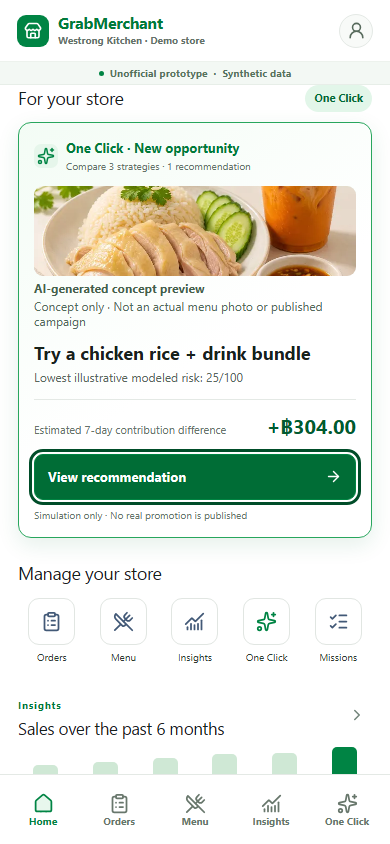
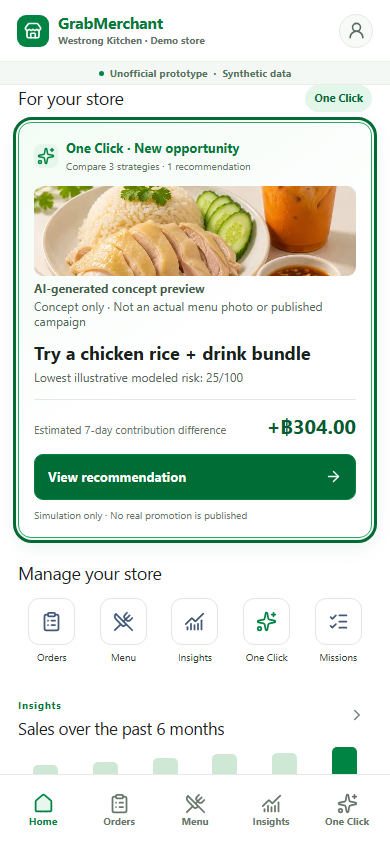
Make One Click home card fully clickable

Changed region(s): [[0.0308, 0.1232, 0.9846, 0.6469]]

diff --git a/frontend/app/page.tsx b/frontend/app/page.tsx
@@ -33,7 +33,7 @@ export default async function Home({ searchParams }: { searchParams: Promise<{ o
     <section className="merchant-highlights" aria-label="Today's overview"><div className="highlight-orders"><span className="highlight-pill">Synthetic data</span><strong>{data.today.orders}</strong><span>Completed orders today</span></div><div className="highlight-sales"><span>Sales today</span><strong>{baht(data.today.gmv)}</strong><small>GMV · {data.today.orders} orders</small></div></section>
     <div className="home-aov">Average order value <strong>{baht(data.today.aov)}</strong></div>
 
-    <section className="home-for-you" aria-labelledby="for-you-heading"><div className="home-feature-heading"><h2 id="for-you-heading">For your store</h2><span>One Click</span></div><article className={`home-recommendation${data.opportunity ? " is-opportunity" : ""}`}><div className="home-recommendation-top"><span className="native-ai-icon"><Sparkles size={18} /></span><span><strong>One Click · New opportunity</strong><small>Compare 3 strategies · 1 recommendation</small></span></div>{homeVisualStrategy && <div className="home-recommendation-visual"><StrategyVisual strategyId={homeVisualStrategy} variant="hero" /><small>Concept only · Not an actual menu photo or published campaign</small></div>}{data.opportunity ? <><h3>{recommendedCase?.strategy_id === "bundle" && /chicken rice.*drink/i.test(comparison?.proposed.label ?? "") ? "Try a chicken rice + drink bundle" : recommendedCase ? `Try ${recommendedCase.description.toLowerCase()}` : data.opportunity.title}</h3><p>{recommendedCase ? `Lowest illustrative modeled risk: ${recommendedCase.risk_score}/100` : data.opportunity.rationale}</p>{recommendedCase && <div className="home-recommendation-impact"><span>Estimated 7-day contribution difference</span><strong>{baht(recommendedCase.estimated_difference, true)}</strong></div>}<Link href={`/opportunity?id=${data.opportunity.id}`} className="home-recommendation-link">View recommendation <ArrowRight size={17} /></Link></> : latest ? <><h3>Track your mission</h3><p>{latest.title}</p><div className="home-recommendation-impact"><span>Status</span><strong className="status-copy">{latest.status === "completed" ? "Simulated result ready" : latest.status === "reviewed" ? "Simulated result reviewed" : latest.status === "approved" ? "Simulation approved" : latest.status}</strong></div><Link href={`/missions/${latest.id}`} className="home-recommendation-link">Track mission <ArrowRight size={17} /></Link></> : <><h3>No new opportunities</h3><p>Review previous simulated missions in One Click</p><Link href="/ai" className="home-recommendation-link">Open One Click <ArrowRight size={17} /></Link></>}<small className="home-recommendation-disclaimer">Simulation only · No real promotion is published</small></article></section>
+    <section className="home-for-you" aria-labelledby="for-you-heading"><div className="home-feature-heading"><h2 id="for-you-heading">For your store</h2><span>One Click</span></div><article className={`home-recommendation${data.opportunity ? " is-opportunity" : ""}`}><Link href={data.opportunity ? `/opportunity?id=${data.opportunity.id}` : latest ? `/missions/${latest.id}` : "/ai"} className="home-recommendation-hitarea" aria-label={data.opportunity ? "View recommendation" : latest ? "Track mission" : "Open One Click"} /><div className="home-recommendation-top"><span className="native-ai-icon"><Sparkles size={18} /></span><span><strong>One Click · New opportunity</strong><small>Compare 3 strategies · 1 recommendation</small></span></div>{homeVisualStrategy && <div className="home-recommendation-visual"><StrategyVisual strategyId={homeVisualStrategy} variant="hero" /><small>Concept only · Not an actual menu photo or published campaign</small></div>}{data.opportunity ? <><h3>{recommendedCase?.strategy_id === "bundle" && /chicken rice.*drink/i.test(comparison?.proposed.label ?? "") ? "Try a chicken rice + drink bundle" : recommendedCase ? `Try ${recommendedCase.description.toLowerCase()}` : data.opportunity.title}</h3><p>{recommendedCase ? `Lowest illustrative modeled risk: ${recommendedCase.risk_score}/100` : data.opportunity.rationale}</p>{recommendedCase && <div className="home-recommendation-impact"><span>Estimated 7-day contribution difference</span><strong>{baht(recommendedCase.estimated_difference, true)}</strong></div>}<span className="home-recommendation-link">View recommendation <ArrowRight size={17} /></span></> : latest ? <><h3>Track your mission</h3><p>{latest.title}</p><div className="home-recommendation-impact"><span>Status</span><strong className="status-copy">{latest.status === "completed" ? "Simulated result ready" : latest.status === "reviewed" ? "Simulated result reviewed" : latest.status === "approved" ? "Simulation approved" : latest.status}</strong></div><span className="home-recommendation-link">Track mission <ArrowRight size={17} /></span></> : <><h3>No new opportunities</h3><p>Review previous simulated missions in One Click</p><span className="home-recommendation-link">Open One Click <ArrowRight size={17} /></span></>}<small className="home-recommendation-disclaimer">Simulation only · No real promotion is published</small></article></section>
 
     <section className="merchant-shortcuts" aria-labelledby="shortcuts-heading"><h2 id="shortcuts-heading">Manage your store</h2><nav className="merchant-shortcut-grid" aria-label="Store shortcuts"><Link href="/orders"><span><ClipboardList size={21} /></span>Orders</Link><Link href="/menu"><span><UtensilsCrossed size={21} /></span>Menu</Link><Link href="/performance"><span><ChartNoAxesCombined size={21} /></span>Insights</Link><Link href="/ai"><span><Sparkles size={21} /></span>One Click</Link><Link href="/missions"><span><ListChecks size={21} /></span>Missions</Link></nav></section>
 

diff --git a/frontend/components/judge-demo.tsx b/frontend/components/judge-demo.tsx
@@ -115,7 +115,7 @@ function JudgeMerchantHome({ approvedStrategy, resultReady, reviewed, onOneClick
     <div className="home-store-context"><div className="home-store-pick"><span className="home-store-icon"><Store size={17} /></span><span><small>Your store</small><strong>Westrong Kitchen</strong></span></div><span className="home-date">{thaiDate(dashboard.today.from)}</span></div>
     <section id="judge-orders" className="merchant-highlights" aria-label="Today's synthetic overview"><div className="highlight-orders"><span className="highlight-pill">Synthetic data</span><strong>{dashboard.today.orders}</strong><span>Completed orders today</span></div><div className="highlight-sales"><span>Sales today</span><strong>{baht(dashboard.today.gmv)}</strong><small>GMV · {dashboard.today.orders} orders</small></div></section>
     <div className="home-aov">Average order value <strong>{baht(dashboard.today.aov)}</strong></div>
-    <section className="home-for-you" aria-labelledby="judge-for-you-heading"><div className="home-feature-heading"><h2 id="judge-for-you-heading">For your store</h2><span>One Click</span></div><article className={`home-recommendation${approved ? "" : " is-opportunity"}`}><div className="home-recommendation-top"><span className="native-ai-icon"><Sparkles size={18} /></span><span><strong>{approved ? "One Click · Simulated mission" : "One Click · New opportunity"}</strong><small>{approved ? reviewed ? "Result reviewed" : resultReady ? "Result ready for review" : "Approved in this demo session" : "Compare 3 strategies · 1 recommendation"}</small></span></div><div className="home-recommendation-visual"><StrategyVisual strategyId={approvedStrategy ?? recommendation.strategy_id} variant="hero" /><small>Concept only · Not an actual menu photo or published campaign</small></div><h3>{opportunityTitle}</h3><p>{approved ? "Your selected strategy stays in this browser session. No real promotion was published." : `Lowest illustrative modeled risk: ${recommendation.risk_score}/100`}</p><div className="home-recommendation-impact"><span>{approved ? "Mission status" : "Estimated 7-day contribution difference"}</span><strong className={approved ? "status-copy" : undefined}>{approved ? reviewed ? "Result reviewed" : resultReady ? "Simulated result ready" : "Approved for simulation" : baht(recommendation.estimated_difference, true)}</strong></div><button type="button" className="home-recommendation-link" onClick={onOneClick}>{actionLabel} <ArrowRight size={17} /></button><small className="home-recommendation-disclaimer">Simulation only · No real promotion is published</small></article></section>
+    <section className="home-for-you" aria-labelledby="judge-for-you-heading"><div className="home-feature-heading"><h2 id="judge-for-you-heading">For your store</h2><span>One Click</span></div><article className={`home-recommendation${approved ? "" : " is-opportunity"}`}><button type="button" className="home-recommendation-hitarea" aria-label={actionLabel} onClick={onOneClick} /><div className="home-recommendation-top"><span className="native-ai-icon"><Sparkles size={18} /></span><span><strong>{approved ? "One Click · Simulated mission" : "One Click · New opportunity"}</strong><small>{approved ? reviewed ? "Result reviewed" : resultReady ? "Result ready for review" : "Approved in this demo session" : "Compare 3 strategies · 1 recommendation"}</small></span></div><div className="home-recommendation-visual"><StrategyVisual strategyId={approvedStrategy ?? recommendation.strategy_id} variant="hero" /><small>Concept only · Not an actual menu photo or published campaign</small></div><h3>{opportunityTitle}</h3><p>{approved ? "Your selected strategy stays in this browser session. No real promotion was published." : `Lowest illustrative modeled risk: ${recommendation.risk_score}/100`}</p><div className="home-recommendation-impact"><span>{approved ? "Mission status" : "Estimated 7-day contribution difference"}</span><strong className={approved ? "status-copy" : undefined}>{approved ? reviewed ? "Result reviewed" : resultReady ? "Simulated result ready" : "Approved for simulation" : baht(recommendation.estimated_difference, true)}</strong></div><span className="home-recommendation-link">{actionLabel} <ArrowRight size={17} /></span><small className="home-recommendation-disclaimer">Simulation only · No real promotion is published</small></article></section>
     <section className="merchant-shortcuts" aria-labelledby="judge-shortcuts-heading"><h2 id="judge-shortcuts-heading">Manage your store</h2><nav className="merchant-shortcut-grid" aria-label="Store shortcuts"><button type="button" onClick={() => jumpTo("judge-orders")}><span><ClipboardList size={21} /></span>Orders</button><button type="button" onClick={() => jumpTo("judge-menu")}><span><UtensilsCrossed size={21} /></span>Menu</button><button type="button" onClick={() => jumpTo("judge-insights")}><span><ChartNoAxesCombined size={21} /></span>Insights</button></nav></section>
     <section id="judge-insights" className="home-compact-section" aria-labelledby="judge-trend-heading"><div className="compact-heading"><div><span>INSIGHTS · SYNTHETIC</span><h2 id="judge-trend-heading">Sales over the past 6 months</h2></div></div><TrendBars months={dashboard.monthly_trend} /></section>
     <section id="judge-menu" className="home-compact-section" aria-labelledby="judge-top-heading"><div className="compact-heading"><div><span>TOP MENU ITEMS</span><h2 id="judge-top-heading">Popular items</h2></div></div><ol className="compact-ranking">{dashboard.top_items.slice(0, 3).map((item, index) => <li key={item.menu_item_id}><span className="rank">{index + 1}</span><span><strong>{item.name}</strong><small>{item.units} sold</small></span><b>{baht(item.gmv)}</b></li>)}</ol></section>

diff --git a/frontend/app/fidelity.css b/frontend/app/fidelity.css
@@ -13,14 +13,17 @@ body { font-family:"Leelawadee UI", "Noto Sans Thai", Tahoma, "Segoe UI", sans-s
 .home-recommendation-visual .strategy-visual.is-hero .strategy-visual-image { height:90px; }
 .home-recommendation-visual .strategy-visual-caption { font-size:12px; font-weight:700; }
 .home-recommendation-visual > small { display:block; margin-top:2px; color:#536b5b; font-size:12px; line-height:1.3; }
+.home-recommendation { position:relative; }
+.home-recommendation-hitarea { position:absolute; inset:0; z-index:2; display:block; width:100%; height:100%; padding:0; border:0; border-radius:inherit; background:transparent; cursor:pointer; }
+.home-recommendation-hitarea:focus-visible { outline:3px solid #006b35; outline-offset:3px; }
+.home-recommendation:has(.home-recommendation-hitarea:hover) { border-color:#008742; box-shadow:0 8px 25px #16743c2a; }
 .home-for-you:has(.is-opportunity) .home-feature-heading > span { padding:5px 9px; border-radius:20px; background:#e2f6e9; color:#006c35; font-weight:800; }
 .home-recommendation.is-opportunity { border:1.5px solid #28a65d; background:linear-gradient(145deg,#f3fcf5 0%,#fff 55%); box-shadow:0 7px 22px #16743c1c; }
 .home-recommendation.is-opportunity .home-recommendation-top strong { font-size:13px; font-weight:850; }
 .home-recommendation.is-opportunity h3 { font-size:18px; font-weight:800; }
 .home-recommendation.is-opportunity .home-recommendation-impact strong { font-size:20px; font-weight:850; }
 .home-recommendation.is-opportunity .home-recommendation-link { min-height:46px; margin-top:13px; padding:0 13px; border:1px solid #008442; border-radius:9px; background:#008742; color:#fff; font-size:13px; font-weight:800; }
-.home-recommendation.is-opportunity .home-recommendation-link:hover,.home-recommendation.is-opportunity .home-recommendation-link:focus-visible { background:#006d36; }
-.home-recommendation.is-opportunity .home-recommendation-link:focus-visible { outline:3px solid #004d29; outline-offset:2px; }
+.home-recommendation.is-opportunity:has(.home-recommendation-hitarea:hover) .home-recommendation-link,.home-recommendation.is-opportunity:has(.home-recommendation-hitarea:focus-visible) .home-recommendation-link { background:#006d36; }
 .home-recommendation.is-opportunity .home-recommendation-disclaimer { margin-top:9px; }
 .merchant-shortcuts { margin-top:24px; }.merchant-shortcut-grid { display:grid; grid-template-columns:repeat(5,1fr); gap:4px; margin-top:13px; }.merchant-shortcut-grid a { display:flex; align-items:center; flex-direction:column; gap:6px; text-align:center; color:#2e3931; font-size:10px; line-height:1.25; }.merchant-shortcut-grid a > span { width:47px; height:47px; display:grid; place-items:center; border:1px solid #e1e6e2; border-radius:11px; color:#425977; background:#fff; }.merchant-shortcut-grid a:nth-child(4) > span { color:var(--green); }.merchant-shortcut-grid a:focus-visible > span,.merchant-shortcut-grid a:hover > span { border-color:var(--green); background:#f0faf2; }
 .home-compact-section { margin-top:28px; }.compact-heading h2 { font-size:17px; }.compact-heading span { font-size:10px; }.compact-ranking strong,.compact-ranking b { font-size:12px; }.compact-ranking small { font-size:10px; }.footnote { font-size:10px; }

diff --git a/frontend/components/home-opportunity-popup.tsx b/frontend/components/home-opportunity-popup.tsx
@@ -65,7 +65,7 @@ export function HomeOpportunityPopup({ mission, initialComparison, initialEvalua
   function dismiss() {
     setOpen(false);
     if (forceOpen) router.replace("/");
-    requestAnimationFrame(() => { document.querySelector(".home-for-you")?.scrollIntoView({ behavior: "auto", block: "start" }); document.querySelector<HTMLElement>(".home-recommendation-link")?.focus({ preventScroll: true }); });
+    requestAnimationFrame(() => { document.querySelector(".home-for-you")?.scrollIntoView({ behavior: "auto", block: "start" }); document.querySelector<HTMLElement>(".home-recommendation-hitarea")?.focus({ preventScroll: true }); });
   }
   function show(next: View, strategy?: StrategyId) { if (strategy) setDetailStrategy(strategy); setError(""); setView(next); bodyRef.current?.scrollTo({ top: 0 }); }
   async function refresh() {
